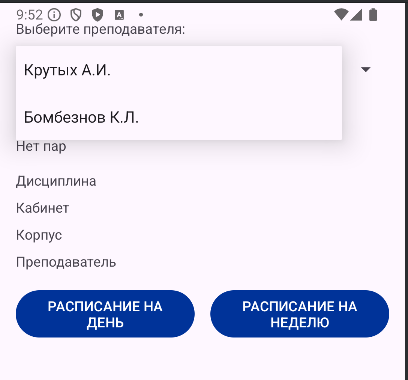
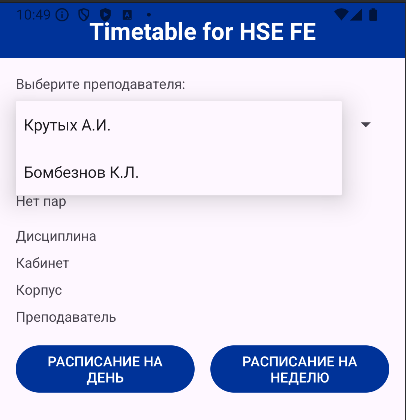
Лаб 3: сделал заголовок общий и добавил его в стилях, и подсветил текст

diff --git a/app/src/main/java/org/hse/android/BasePeopleActivity.java b/app/src/main/java/org/hse/android/BasePeopleActivity.java
@@ -1,6 +1,9 @@
 package org.hse.android;
 
 import android.os.Bundle;
+import android.text.Spannable;
+import android.text.SpannableString;
+import android.text.style.ForegroundColorSpan;
 import android.util.Log;
 import android.view.View;
 import android.widget.AdapterView;
@@ -97,31 +100,22 @@ public abstract class BasePeopleActivity extends AppCompatActivity {
         String formattedTime = timeFormat.format(currentTime);
         String dayOfWeek = dayFormat.format(currentTime);
         dayOfWeek = dayOfWeek.substring(0, 1).toUpperCase() + dayOfWeek.substring(1);
-        time.setText(formattedTime + ", " + dayOfWeek);
+
+        // Устанавливаем текст с разными цветами
+        String text = getString(R.string.current_time) + formattedTime + ", " + dayOfWeek;
+        SpannableString spannable = new SpannableString(text);
+        spannable.setSpan(new ForegroundColorSpan(getColor(R.color.colorPrimary)), 0, getString(R.string.current_time).length(), Spannable.SPAN_EXCLUSIVE_EXCLUSIVE); // Красим "Сейчас"
+
+        time.setText(spannable);
     }
+
 
     protected void initData() {
         status.setText("Нет пар");
 
-        if (subject != null) subject.setText("Дисциплина");
-        if (cabinet != null) cabinet.setText("Кабинет");
-        if (corp != null) corp.setText("Корпус");
-        if (teacher != null) teacher.setText("Преподаватель");
-    }
-
-    // Внутренний класс Group (общий для всех)
-    public static class Group {
-        private final int id;
-        private final String name;
-
-        public Group(int id, String name) {
-            this.id = id;
-            this.name = name;
-        }
-
-        @Override
-        public String toString() {
-            return name;
-        }
+        if (subject != null) subject.setText(R.string.subject);
+        if (cabinet != null) cabinet.setText(R.string.cabinet);
+        if (corp != null) corp.setText(R.string.corp);
+        if (teacher != null) teacher.setText(R.string.teacher);
     }
 }
